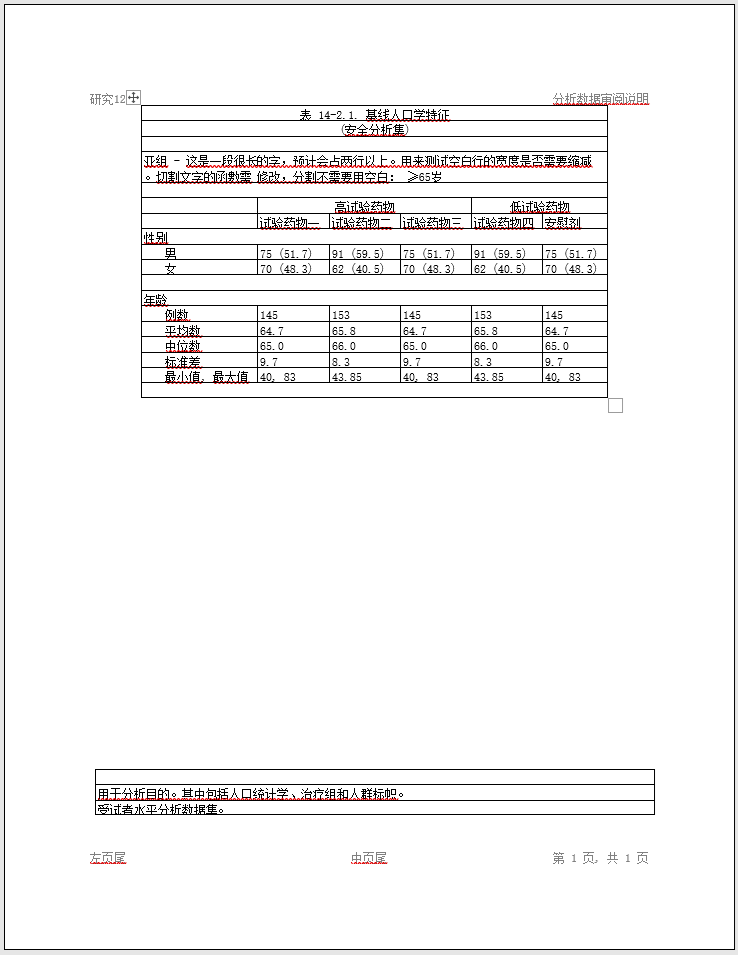
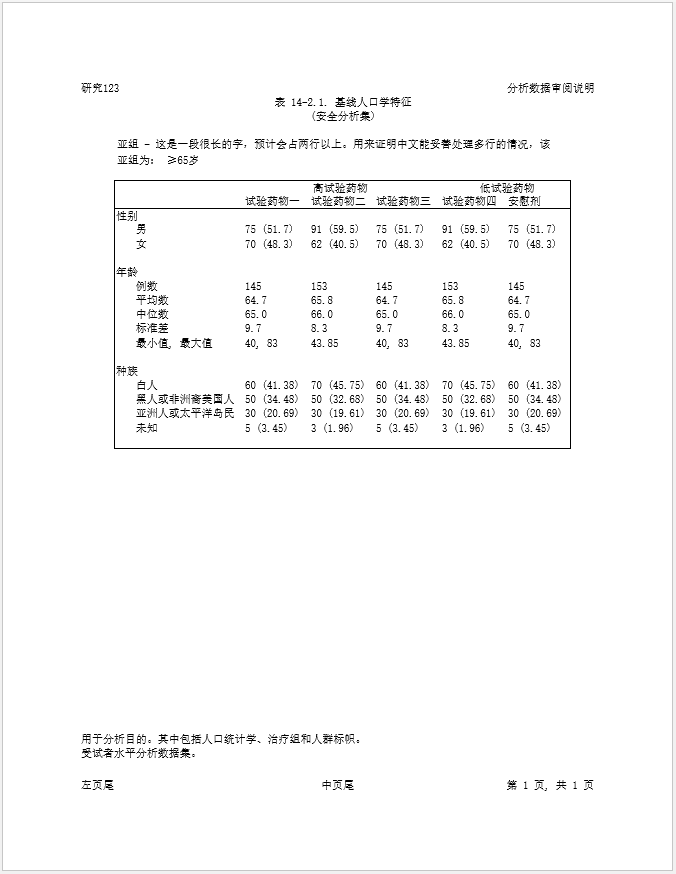
1. update NEWS 2. update Chines example in pkgdown 3. Refresh pkgdown

diff --git a/docs/articles/reporter-fonts.html b/docs/articles/reporter-fonts.html
@@ -214,56 +214,56 @@ footnotes.</p>
 <p>The “SimSun” font supports reporting in the Chinese language. The
 font can be specified as the other English language fonts. Here is an
 example of a report using “SimSun” font:</p>
-<pre><code><span>    <span class="co"># Read in prepared data</span></span>
-<span>    <span class="va">df</span> <span class="op">&lt;-</span> <span class="fu"><a href="https://rdrr.io/r/utils/read.table.html" class="external-link">read.table</a></span><span class="op">(</span>header <span class="op">=</span> <span class="cn">TRUE</span>, text <span class="op">=</span> <span class="st">'</span></span>
-<span><span class="st">      group1   group2            trt1         trt2         subgroup</span></span>
-<span><span class="st">      "性别"   "男"              "75 (51.7)"  "91 (59.5)"  "≥65岁"</span></span>
-<span><span class="st">      "性别"   "女"              "70 (48.3)"  "62 (40.5)"  "≥65岁"</span></span>
-<span><span class="st">      "年龄"   "例数"            "145"        "153"        "≥65岁"</span></span>
-<span><span class="st">      "年龄"   "平均数"          "64.7"       "65.8"       "≥65岁"</span></span>
-<span><span class="st">      "年龄"   "中位数"          "65.0"       "66.0"       "≥65岁"</span></span>
-<span><span class="st">      "年龄"   "标准差"          "9.7"        "8.3"        "≥65岁"</span></span>
-<span><span class="st">      "年龄"   "最小值, 最大值"  "40, 83"     "43.85"      "≥65岁"'</span><span class="op">)</span></span>
-<span>    </span>
-<span>    <span class="va">df</span><span class="op">$</span><span class="va">trt3</span> <span class="op">&lt;-</span> <span class="va">df</span><span class="op">$</span><span class="va">trt1</span></span>
-<span>    <span class="va">df</span><span class="op">$</span><span class="va">trt4</span> <span class="op">&lt;-</span> <span class="va">df</span><span class="op">$</span><span class="va">trt2</span></span>
-<span>    <span class="va">df</span><span class="op">$</span><span class="va">trt5</span> <span class="op">&lt;-</span> <span class="va">df</span><span class="op">$</span><span class="va">trt1</span></span>
-<span>    </span>
-<span>    <span class="co"># Create table</span></span>
-<span>    <span class="va">tbl</span> <span class="op">&lt;-</span> <span class="fu"><a href="../reference/create_table.html">create_table</a></span><span class="op">(</span><span class="va">df</span>, borders <span class="op">=</span> <span class="st">"all"</span><span class="op">)</span> <span class="op"><a href="https://magrittr.tidyverse.org/reference/pipe.html" class="external-link">%&gt;%</a></span></span>
-<span>      <span class="fu"><a href="../reference/titles.html">titles</a></span><span class="op">(</span><span class="st">"表 14-2.1. 基线人口学特征"</span>, <span class="st">"(安全分析集)"</span>, borders <span class="op">=</span> <span class="st">"all"</span><span class="op">)</span> <span class="op"><a href="https://magrittr.tidyverse.org/reference/pipe.html" class="external-link">%&gt;%</a></span></span>
-<span>      <span class="fu"><a href="../reference/stub.html">stub</a></span><span class="op">(</span><span class="fu"><a href="https://rdrr.io/r/base/c.html" class="external-link">c</a></span><span class="op">(</span><span class="st">"group1"</span>, <span class="st">"group2"</span><span class="op">)</span><span class="op">)</span> <span class="op"><a href="https://magrittr.tidyverse.org/reference/pipe.html" class="external-link">%&gt;%</a></span></span>
-<span>      <span class="fu"><a href="../reference/page_by.html">page_by</a></span><span class="op">(</span><span class="va">subgroup</span>, </span>
-<span>      label <span class="op">=</span> <span class="fu"><a href="https://rdrr.io/r/base/paste.html" class="external-link">paste0</a></span><span class="op">(</span><span class="st">"亚组 - 这是一段很长的字，预计会占两行以上。"</span>,</span>
-<span>      <span class="st">"用来测试空白行的宽度是否需要缩减。切割文字的函數需 修改，分割不需要用空白："</span><span class="op">)</span>, </span>
-<span>              borders <span class="op">=</span> <span class="st">"all"</span><span class="op">)</span> <span class="op"><a href="https://magrittr.tidyverse.org/reference/pipe.html" class="external-link">%&gt;%</a></span></span>
-<span>      <span class="fu"><a href="../reference/define.html">define</a></span><span class="op">(</span><span class="va">group1</span>, label_row <span class="op">=</span> <span class="cn">T</span>, blank_after <span class="op">=</span> <span class="cn">T</span><span class="op">)</span> <span class="op"><a href="https://magrittr.tidyverse.org/reference/pipe.html" class="external-link">%&gt;%</a></span></span>
-<span>      <span class="fu"><a href="../reference/define.html">define</a></span><span class="op">(</span><span class="va">group2</span>, indent <span class="op">=</span> <span class="fl">0.25</span><span class="op">)</span> <span class="op"><a href="https://magrittr.tidyverse.org/reference/pipe.html" class="external-link">%&gt;%</a></span></span>
-<span>      <span class="fu"><a href="../reference/define.html">define</a></span><span class="op">(</span><span class="va">trt1</span>, label <span class="op">=</span> <span class="st">"试验药物一"</span><span class="op">)</span> <span class="op"><a href="https://magrittr.tidyverse.org/reference/pipe.html" class="external-link">%&gt;%</a></span></span>
-<span>      <span class="fu"><a href="../reference/define.html">define</a></span><span class="op">(</span><span class="va">trt2</span>, label <span class="op">=</span> <span class="st">"试验药物二"</span><span class="op">)</span> <span class="op"><a href="https://magrittr.tidyverse.org/reference/pipe.html" class="external-link">%&gt;%</a></span></span>
-<span>      <span class="fu"><a href="../reference/define.html">define</a></span><span class="op">(</span><span class="va">trt3</span>, label <span class="op">=</span> <span class="st">"试验药物三"</span><span class="op">)</span> <span class="op"><a href="https://magrittr.tidyverse.org/reference/pipe.html" class="external-link">%&gt;%</a></span></span>
-<span>      <span class="fu"><a href="../reference/define.html">define</a></span><span class="op">(</span><span class="va">trt4</span>, label <span class="op">=</span> <span class="st">"试验药物四"</span><span class="op">)</span> <span class="op"><a href="https://magrittr.tidyverse.org/reference/pipe.html" class="external-link">%&gt;%</a></span></span>
-<span>      <span class="fu"><a href="../reference/define.html">define</a></span><span class="op">(</span><span class="va">trt5</span>, label <span class="op">=</span> <span class="st">"安慰剂"</span><span class="op">)</span> <span class="op"><a href="https://magrittr.tidyverse.org/reference/pipe.html" class="external-link">%&gt;%</a></span></span>
-<span>      <span class="fu"><a href="../reference/define.html">define</a></span><span class="op">(</span><span class="va">subgroup</span>, visible <span class="op">=</span> <span class="cn">FALSE</span><span class="op">)</span> <span class="op"><a href="https://magrittr.tidyverse.org/reference/pipe.html" class="external-link">%&gt;%</a></span></span>
-<span>      <span class="fu"><a href="../reference/spanning_header.html">spanning_header</a></span><span class="op">(</span>from <span class="op">=</span> <span class="st">"trt1"</span>, to <span class="op">=</span> <span class="st">"trt3"</span>, label <span class="op">=</span> <span class="st">"高试验药物"</span><span class="op">)</span> <span class="op"><a href="https://magrittr.tidyverse.org/reference/pipe.html" class="external-link">%&gt;%</a></span></span>
-<span>      <span class="fu"><a href="../reference/spanning_header.html">spanning_header</a></span><span class="op">(</span>from <span class="op">=</span> <span class="st">"trt4"</span>, to <span class="op">=</span> <span class="st">"trt5"</span>, label <span class="op">=</span> <span class="st">"低试验药物"</span><span class="op">)</span></span>
-<span>    </span>
-<span>    <span class="va">file_name</span> <span class="op">&lt;-</span> <span class="fu"><a href="https://rdrr.io/r/base/tempfile.html" class="external-link">tempfile</a></span><span class="op">(</span>fileext <span class="op">=</span> <span class="st">".docx"</span><span class="op">)</span></span>
-<span>    </span>
-<span>    <span class="va">rpt</span> <span class="op">&lt;-</span> <span class="fu"><a href="../reference/create_report.html">create_report</a></span><span class="op">(</span><span class="va">fp</span>, output_type <span class="op">=</span> <span class="st">"docx"</span>, font <span class="op">=</span> <span class="st">"SimSun"</span>,</span>
-<span>                         font_size <span class="op">=</span> <span class="fl">10</span>, orientation <span class="op">=</span> <span class="st">"portrait"</span><span class="op">)</span> <span class="op"><a href="https://magrittr.tidyverse.org/reference/pipe.html" class="external-link">%&gt;%</a></span></span>
-<span>      <span class="fu"><a href="../reference/set_margins.html">set_margins</a></span><span class="op">(</span>top <span class="op">=</span> <span class="fl">1</span>, bottom <span class="op">=</span> <span class="fl">1</span><span class="op">)</span> <span class="op"><a href="https://magrittr.tidyverse.org/reference/pipe.html" class="external-link">%&gt;%</a></span></span>
-<span>      <span class="fu"><a href="../reference/page_header.html">page_header</a></span><span class="op">(</span><span class="st">"研究123"</span>, <span class="st">"分析数据审阅说明"</span><span class="op">)</span> <span class="op"><a href="https://magrittr.tidyverse.org/reference/pipe.html" class="external-link">%&gt;%</a></span></span>
-<span>      <span class="fu"><a href="../reference/add_content.html">add_content</a></span><span class="op">(</span><span class="va">tbl</span>, blank_row <span class="op">=</span> <span class="st">"none"</span><span class="op">)</span> <span class="op"><a href="https://magrittr.tidyverse.org/reference/pipe.html" class="external-link">%&gt;%</a></span></span>
-<span>      <span class="fu"><a href="../reference/page_footer.html">page_footer</a></span><span class="op">(</span><span class="st">"左页尾"</span>, <span class="st">"中页尾"</span>, <span class="st">"第 [pg] 页, 共 [tpg] 页"</span><span class="op">)</span> <span class="op"><a href="https://magrittr.tidyverse.org/reference/pipe.html" class="external-link">%&gt;%</a></span></span>
-<span>      <span class="fu"><a href="../reference/footnotes.html">footnotes</a></span><span class="op">(</span><span class="st">"用于分析目的。其中包括人口统计学、治疗组和人群标帜。"</span>, </span>
-<span>                <span class="st">"受试者水平分析数据集。"</span>, borders <span class="op">=</span> <span class="st">"all"</span><span class="op">)</span></span>
-<span>    </span>
-<span>    <span class="va">res</span> <span class="op">&lt;-</span> <span class="fu"><a href="../reference/write_report.html">write_report</a></span><span class="op">(</span><span class="va">rpt</span><span class="op">)</span></span>
-<span>    </span>
-<span>    <span class="co"># Uncomment to view</span></span>
-<span>    <span class="co"># file.show(res$path)</span></span>
-<span>      </span></code></pre>
+<div class="sourceCode" id="cb2"><pre class="downlit sourceCode r">
+<code class="sourceCode R"><span><span class="va">tmp</span> <span class="op">&lt;-</span> <span class="fu"><a href="https://rdrr.io/r/base/file.path.html" class="external-link">file.path</a></span><span class="op">(</span><span class="fu"><a href="https://rdrr.io/r/base/tempfile.html" class="external-link">tempdir</a></span><span class="op">(</span><span class="op">)</span>, <span class="st">"example10_2.rtf"</span><span class="op">)</span></span>
+<span></span>
+<span><span class="co"># Read in prepared data</span></span>
+<span><span class="va">df</span> <span class="op">&lt;-</span> <span class="fu"><a href="https://rdrr.io/r/utils/read.table.html" class="external-link">read.table</a></span><span class="op">(</span>header <span class="op">=</span> <span class="cn">TRUE</span>, text <span class="op">=</span> <span class="st">'</span></span>
+<span><span class="st">      group1   group2               trt1         trt2         subgroup</span></span>
+<span><span class="st">      "性别"   "男"                 "75 (51.7)"  "91 (59.5)"  "≥65岁"</span></span>
+<span><span class="st">      "性别"   "女"                 "70 (48.3)"  "62 (40.5)"  "≥65岁"</span></span>
+<span><span class="st">      "年龄"   "例数"               "145"        "153"        "≥65岁"</span></span>
+<span><span class="st">      "年龄"   "平均数"             "64.7"       "65.8"       "≥65岁"</span></span>
+<span><span class="st">      "年龄"   "中位数"             "65.0"       "66.0"       "≥65岁"</span></span>
+<span><span class="st">      "年龄"   "标准差"             "9.7"        "8.3"        "≥65岁"</span></span>
+<span><span class="st">      "年龄"   "最小值, 最大值"     "40, 83"     "43.85"      "≥65岁"</span></span>
+<span><span class="st">      "种族"   "白人"               "60 (41.38)" "70 (45.75)" "≥65岁"</span></span>
+<span><span class="st">      "种族"   "黑人或非洲裔美国人" "50 (34.48)" "50 (32.68)" "≥65岁"</span></span>
+<span><span class="st">      "种族"   "亚洲人或太平洋岛民" "30 (20.69)" "30 (19.61)" "≥65岁"</span></span>
+<span><span class="st">      "种族"   "未知"               "5 (3.45)"   "3 (1.96)"   "≥65岁"'</span><span class="op">)</span></span>
+<span></span>
+<span><span class="va">df</span><span class="op">$</span><span class="va">trt3</span> <span class="op">&lt;-</span> <span class="va">df</span><span class="op">$</span><span class="va">trt1</span></span>
+<span><span class="va">df</span><span class="op">$</span><span class="va">trt4</span> <span class="op">&lt;-</span> <span class="va">df</span><span class="op">$</span><span class="va">trt2</span></span>
+<span><span class="va">df</span><span class="op">$</span><span class="va">trt5</span> <span class="op">&lt;-</span> <span class="va">df</span><span class="op">$</span><span class="va">trt1</span></span>
+<span></span>
+<span><span class="co"># Create table</span></span>
+<span><span class="va">tbl</span> <span class="op">&lt;-</span> <span class="fu"><a href="../reference/create_table.html">create_table</a></span><span class="op">(</span><span class="va">df</span>, borders <span class="op">=</span> <span class="st">"outside"</span><span class="op">)</span> <span class="op"><a href="https://magrittr.tidyverse.org/reference/pipe.html" class="external-link">%&gt;%</a></span></span>
+<span>  <span class="fu"><a href="../reference/titles.html">titles</a></span><span class="op">(</span><span class="st">"表 14-2.1. 基线人口学特征"</span>, <span class="st">"(安全分析集)"</span><span class="op">)</span> <span class="op"><a href="https://magrittr.tidyverse.org/reference/pipe.html" class="external-link">%&gt;%</a></span></span>
+<span>  <span class="fu"><a href="../reference/stub.html">stub</a></span><span class="op">(</span><span class="fu"><a href="https://rdrr.io/r/base/c.html" class="external-link">c</a></span><span class="op">(</span><span class="st">"group1"</span>, <span class="st">"group2"</span><span class="op">)</span><span class="op">)</span> <span class="op"><a href="https://magrittr.tidyverse.org/reference/pipe.html" class="external-link">%&gt;%</a></span></span>
+<span>  <span class="fu"><a href="../reference/page_by.html">page_by</a></span><span class="op">(</span><span class="va">subgroup</span>, </span>
+<span>          label <span class="op">=</span> <span class="fu"><a href="https://rdrr.io/r/base/paste.html" class="external-link">paste0</a></span><span class="op">(</span><span class="st">"亚组 - 这是一段很长的字，预计会占两行以上。"</span>,</span>
+<span>                         <span class="st">"用来证明中文能妥善处理多行的情况，该亚组为："</span><span class="op">)</span><span class="op">)</span> <span class="op"><a href="https://magrittr.tidyverse.org/reference/pipe.html" class="external-link">%&gt;%</a></span></span>
+<span>  <span class="fu"><a href="../reference/define.html">define</a></span><span class="op">(</span><span class="va">group1</span>, label_row <span class="op">=</span> <span class="cn">T</span>, blank_after <span class="op">=</span> <span class="cn">T</span><span class="op">)</span> <span class="op"><a href="https://magrittr.tidyverse.org/reference/pipe.html" class="external-link">%&gt;%</a></span></span>
+<span>  <span class="fu"><a href="../reference/define.html">define</a></span><span class="op">(</span><span class="va">group2</span>, indent <span class="op">=</span> <span class="fl">0.25</span><span class="op">)</span> <span class="op"><a href="https://magrittr.tidyverse.org/reference/pipe.html" class="external-link">%&gt;%</a></span></span>
+<span>  <span class="fu"><a href="../reference/define.html">define</a></span><span class="op">(</span><span class="va">trt1</span>, label <span class="op">=</span> <span class="st">"试验药物一"</span><span class="op">)</span> <span class="op"><a href="https://magrittr.tidyverse.org/reference/pipe.html" class="external-link">%&gt;%</a></span></span>
+<span>  <span class="fu"><a href="../reference/define.html">define</a></span><span class="op">(</span><span class="va">trt2</span>, label <span class="op">=</span> <span class="st">"试验药物二"</span><span class="op">)</span> <span class="op"><a href="https://magrittr.tidyverse.org/reference/pipe.html" class="external-link">%&gt;%</a></span></span>
+<span>  <span class="fu"><a href="../reference/define.html">define</a></span><span class="op">(</span><span class="va">trt3</span>, label <span class="op">=</span> <span class="st">"试验药物三"</span><span class="op">)</span> <span class="op"><a href="https://magrittr.tidyverse.org/reference/pipe.html" class="external-link">%&gt;%</a></span></span>
+<span>  <span class="fu"><a href="../reference/define.html">define</a></span><span class="op">(</span><span class="va">trt4</span>, label <span class="op">=</span> <span class="st">"试验药物四"</span><span class="op">)</span> <span class="op"><a href="https://magrittr.tidyverse.org/reference/pipe.html" class="external-link">%&gt;%</a></span></span>
+<span>  <span class="fu"><a href="../reference/define.html">define</a></span><span class="op">(</span><span class="va">trt5</span>, label <span class="op">=</span> <span class="st">"安慰剂"</span><span class="op">)</span> <span class="op"><a href="https://magrittr.tidyverse.org/reference/pipe.html" class="external-link">%&gt;%</a></span></span>
+<span>  <span class="fu"><a href="../reference/define.html">define</a></span><span class="op">(</span><span class="va">subgroup</span>, visible <span class="op">=</span> <span class="cn">FALSE</span><span class="op">)</span> <span class="op"><a href="https://magrittr.tidyverse.org/reference/pipe.html" class="external-link">%&gt;%</a></span></span>
+<span>  <span class="fu"><a href="../reference/spanning_header.html">spanning_header</a></span><span class="op">(</span>from <span class="op">=</span> <span class="st">"trt1"</span>, to <span class="op">=</span> <span class="st">"trt3"</span>, label <span class="op">=</span> <span class="st">"高试验药物"</span><span class="op">)</span> <span class="op"><a href="https://magrittr.tidyverse.org/reference/pipe.html" class="external-link">%&gt;%</a></span></span>
+<span>  <span class="fu"><a href="../reference/spanning_header.html">spanning_header</a></span><span class="op">(</span>from <span class="op">=</span> <span class="st">"trt4"</span>, to <span class="op">=</span> <span class="st">"trt5"</span>, label <span class="op">=</span> <span class="st">"低试验药物"</span><span class="op">)</span></span>
+<span></span>
+<span><span class="va">rpt</span> <span class="op">&lt;-</span> <span class="fu"><a href="../reference/create_report.html">create_report</a></span><span class="op">(</span><span class="va">tmp</span>, output_type <span class="op">=</span> <span class="st">"docx"</span>, font <span class="op">=</span> <span class="st">"SimSun"</span>,</span>
+<span>                     font_size <span class="op">=</span> <span class="fl">10</span>, orientation <span class="op">=</span> <span class="st">"portrait"</span><span class="op">)</span> <span class="op"><a href="https://magrittr.tidyverse.org/reference/pipe.html" class="external-link">%&gt;%</a></span></span>
+<span>  <span class="fu"><a href="../reference/set_margins.html">set_margins</a></span><span class="op">(</span>top <span class="op">=</span> <span class="fl">1</span>, bottom <span class="op">=</span> <span class="fl">1</span><span class="op">)</span> <span class="op"><a href="https://magrittr.tidyverse.org/reference/pipe.html" class="external-link">%&gt;%</a></span></span>
+<span>  <span class="fu"><a href="../reference/page_header.html">page_header</a></span><span class="op">(</span><span class="st">"研究123"</span>, <span class="st">"分析数据审阅说明"</span><span class="op">)</span> <span class="op"><a href="https://magrittr.tidyverse.org/reference/pipe.html" class="external-link">%&gt;%</a></span></span>
+<span>  <span class="fu"><a href="../reference/add_content.html">add_content</a></span><span class="op">(</span><span class="va">tbl</span>, blank_row <span class="op">=</span> <span class="st">"none"</span><span class="op">)</span> <span class="op"><a href="https://magrittr.tidyverse.org/reference/pipe.html" class="external-link">%&gt;%</a></span></span>
+<span>  <span class="fu"><a href="../reference/page_footer.html">page_footer</a></span><span class="op">(</span><span class="st">"左页尾"</span>, <span class="st">"中页尾"</span>, <span class="st">"第 [pg] 页, 共 [tpg] 页"</span><span class="op">)</span> <span class="op"><a href="https://magrittr.tidyverse.org/reference/pipe.html" class="external-link">%&gt;%</a></span></span>
+<span>  <span class="fu"><a href="../reference/footnotes.html">footnotes</a></span><span class="op">(</span><span class="st">"用于分析目的。其中包括人口统计学、治疗组和人群标帜。"</span>, </span>
+<span>            <span class="st">"受试者水平分析数据集。"</span><span class="op">)</span></span>
+<span></span>
+<span><span class="va">res</span> <span class="op">&lt;-</span> <span class="fu"><a href="../reference/write_report.html">write_report</a></span><span class="op">(</span><span class="va">rpt</span><span class="op">)</span></span></code></pre></div>
 <p>And here is the result:</p>
 <p><img src="../man/images/fonts2.png" alt="SimSun example report"></p>
 <p>Next: <a href="reporter-figure.html">Example 11: Figure</a></p>

diff --git a/docs/reference/create_plot.html b/docs/reference/create_plot.html
@@ -132,7 +132,7 @@ plot function."><meta property="og:image" content="https://reporter.r-sassy.org/
 added as content to a report. The <code>create_plot</code> function can
 be used to include charts, graphs, and figures on a statistical report.
 The function supports plot objects returned by
-<code><a href="https://ggplot2.tidyverse.org/reference/ggplot.html" class="external-link">ggplot</a></code> or <code>ggsurvplot</code>.
+<code><a href="https://ggplot2.tidyverse.org/reference/ggplot.html" class="external-link">ggplot</a></code> or <code><a href="https://rdrr.io/pkg/survminer/man/ggsurvplot.html" class="external-link">ggsurvplot</a></code>.
 It does not support the Base R
 <code>plot</code> function.</p>
     </div>
@@ -148,7 +148,7 @@ It does not support the Base R
 <dl><dt id="arg-x">x<a class="anchor" aria-label="anchor" href="#arg-x"></a></dt>
 <dd><p>The plot to create.  Specifically, this parameter should be
 set to an object returned from a call to <code><a href="https://ggplot2.tidyverse.org/reference/ggplot.html" class="external-link">ggplot</a></code>
-or <code>ggsurvplot</code>.  This parameter also accepts
+or <code><a href="https://rdrr.io/pkg/survminer/man/ggsurvplot.html" class="external-link">ggsurvplot</a></code>.  This parameter also accepts
 a path to a JPEG file.  If a path is specified, the image will be appended
 to the report at the point the content object is added. For RTF and DOCX files,
 the function additionally accepts a path to an EMF file.</p></dd>

diff --git a/docs/news/index.html b/docs/news/index.html
@@ -127,10 +127,13 @@
 <li>Added “line_height” parameter to <code><a href="../reference/report_options.html">report_options()</a></code> to let user set a custom line height.</li>
 <li>Added line height and line count setting to print function on the report object, so user can see what the current values are.</li>
 <li>Allow percentage style column widths on the <code><a href="../reference/define.html">define()</a></code> function, passed as a character string with a percent sign, i.e “10%”.</li>
-<li>Added “SimSum” font for Chinese language support.</li>
+<li>Added “SimSun” font for Chinese language support.</li>
 <li>Fixed bug that caused an error on numeric page by values.</li>
-<li>Fixed line break counting on RTF code insertion.</li>
+<li>Fixed line break counting on RTF/HTML code insertion.</li>
 <li>Fixed bug to allow missing values in the page by variable.</li>
+<li>Fixed pagination of page by when lines are wrapped in TXT.</li>
+<li>Fixed padding of “centre” alignment in TXT.</li>
+<li>Fixed footer location when font size is different content size in PDF.</li>
 </ul></div>
     <div class="section level2">
 <h2 class="page-header" data-toc-text="1.4.8" id="reporter-148">reporter 1.4.8<small>2026-07-21</small><a class="anchor" aria-label="anchor" href="#reporter-148"></a></h2>

diff --git a/docs/reference/create_report.html b/docs/reference/create_report.html
@@ -190,7 +190,7 @@ pass the desired character string to the missing parameter.</p></dd>
 <dt id="arg-font">font<a class="anchor" aria-label="anchor" href="#arg-font"></a></dt>
 <dd><p>The font to use on the report.  The font specified will be
 used for the entire report.  Valid values are "Courier", "Arial", "Times",
-"Simsun" and "fixed".  The value of "fixed" will create a fixed-width, text style
+"SimSun" and "fixed".  The value of "fixed" will create a fixed-width, text style
 report in Courier font.  The <code>font</code> parameter only applies to
 RTF, HTML, PDF, and DOCX reports.  The default value is "Courier".  Note that
 the keyword "Courier" actually uses "Courier New" in the rendered report.

diff --git a/NEWS.md b/NEWS.md
@@ -10,10 +10,13 @@ line height.
 so user can see what the current values are.
 - Allow percentage style column widths on the `define()` function, passed as a 
 character string with a percent sign, i.e "10%".
-- Added "SimSum" font for Chinese language support.
+- Added "SimSun" font for Chinese language support.
 - Fixed bug that caused an error on numeric page by values.
-- Fixed line break counting on RTF code insertion. 
+- Fixed line break counting on RTF/HTML code insertion. 
 - Fixed bug to allow missing values in the page by variable.
+- Fixed pagination of page by when lines are wrapped in TXT.
+- Fixed padding of "centre" alignment in TXT.
+- Fixed footer location when font size is different content size in PDF.
 
 # reporter 1.4.8
 
